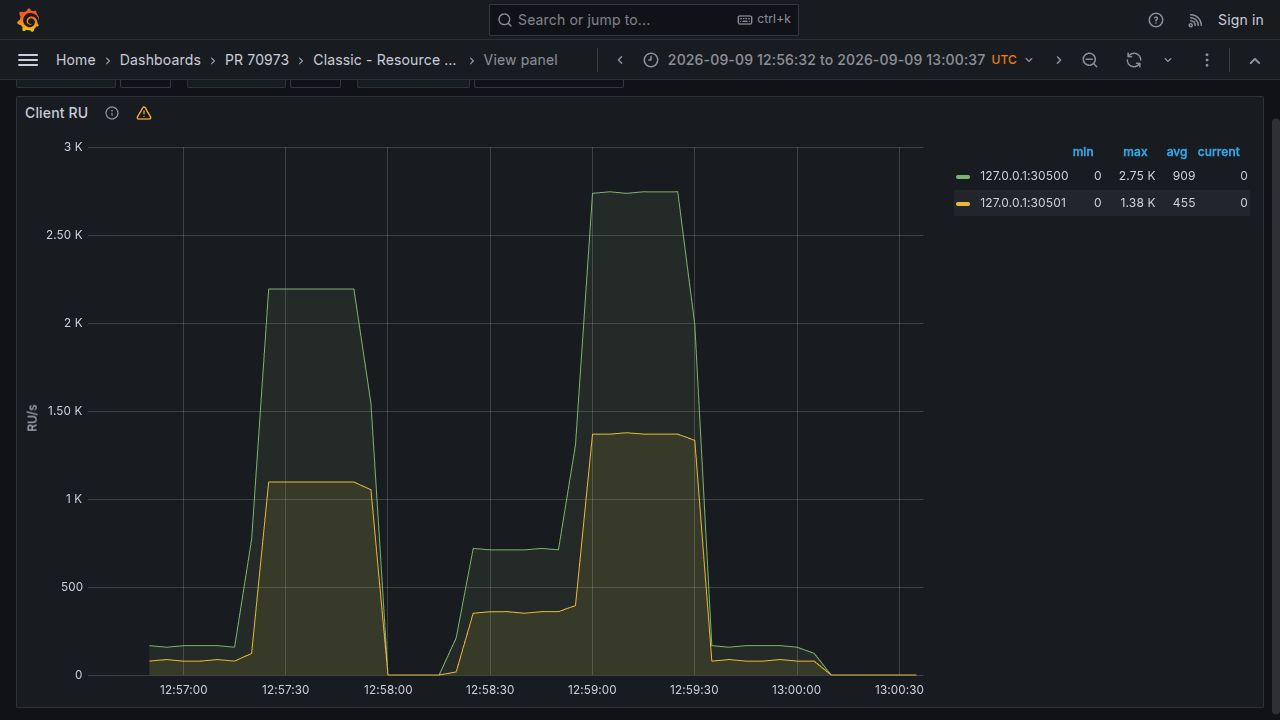
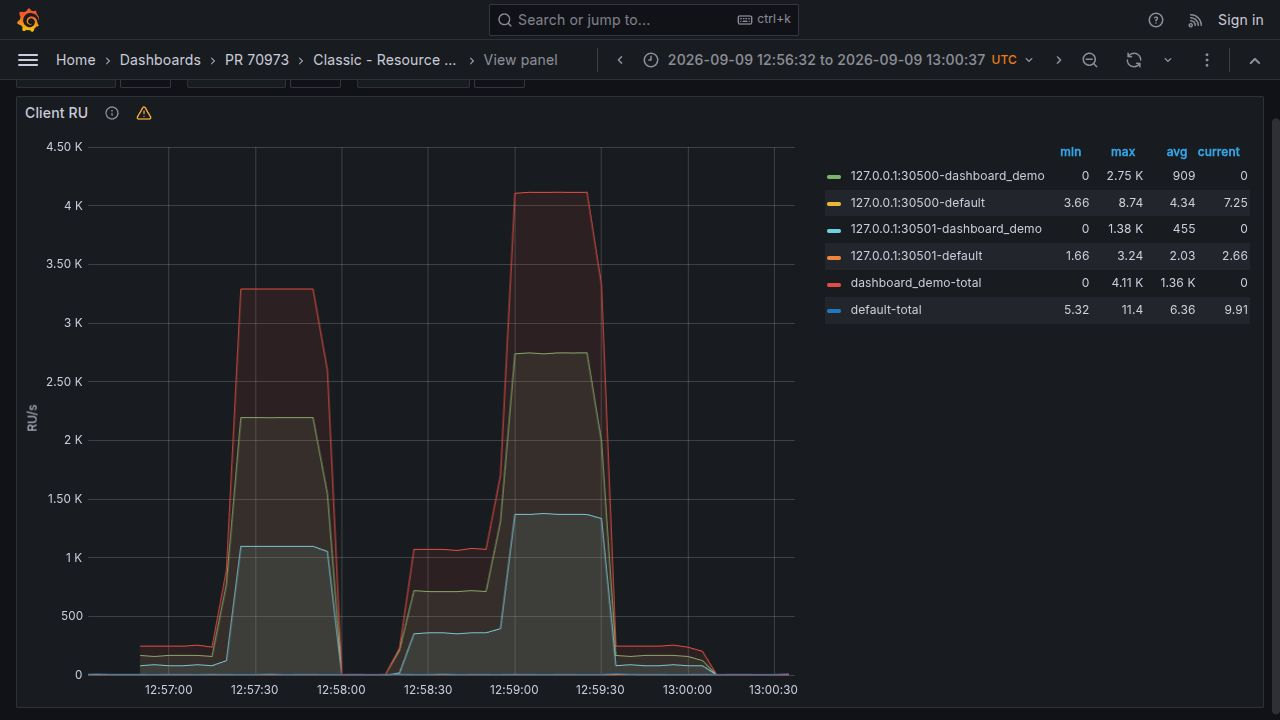
docs: capture client RU resource group details and totals

diff --git a/validation/pr70973/README.md b/validation/pr70973/README.md
@@ -2,7 +2,7 @@
 
 PR: https://github.com/pingcap/tidb/pull/70973
 
-Dashboard and TiDB revision: `4d9dfae5c361fbdf89262c6fdb81991330882bcf`.
+TiDB binary revision: `4d9dfae5c361fbdf89262c6fdb81991330882bcf`. Dashboard revision: `cd1770d8f63c5f7dd1c400ab68eb096c09b05595`. The Client RU captures use the current dashboard queries against the retained real SQL workload samples; the RU queries and captures are unchanged. No new SQL workload or binary build was needed for the Resource Group aggregation change.
 
 Both local deployments used TiDB binaries built from that revision with Go 1.26.7, using `make server` for Classic and `make server NEXT_GEN=1` for TiDB X. Classic used a Community TiKV (`39c62c85bb71e580fb34e89858b5f2e70f2f890e`) and Classic PD. TiDB X used NextGen PD, Cloud Storage Engine TiKV (`100d0dce768a69413f202fe87b1b312d04f7bf66`), MinIO, a SYSTEM TiDB, and two business TiDB instances in `keyspace1`. These are local, single-storage-node validation environments, not production topologies.
 
@@ -10,9 +10,9 @@ Grafana 10.4.19 and Prometheus 3.5.0 were configured with 5-second scrapes. The 
 
 The same 225-second workload ran on both architectures in resource group `dashboard_demo` (`RU_PER_SEC=100000 BURSTABLE`): each cycle updated an 8 KiB value and read it back. Four connections per instance generated requested rates of 15, 200, 0, 65, 250, 15 and 0 cycles/s on instance 1, with phase durations of 35, 35, 25, 35, 35, 35 and 25 seconds. Instance 2 used half those rates. Each architecture completed 28,628 cycles, with zero SQL errors. Recorded SQL status confirmed the PR commit on all five TiDB processes.
 
-Both dashboards showed the two peaks and idle valleys. Client RU showed two distinct instance series; the instance selector was exercised in Grafana on both architectures. Queries also verified instance/resource-group filtering and nonempty, finite RU/RRU/WRU series. Client RU maxima were approximately 2,746/1,376 RU/s on Classic and 3,017/1,513 RU/s on TiDB X; each returned to zero during idle. These are observability checks, not a performance comparison between architectures.
+Both dashboards showed the two peaks and idle valleys. Client RU shows a distinct series for each instance/resource-group pair and a total per resource group across the selected instances; the instance selector was exercised in Grafana on both architectures. Queries also verified instance/resource-group filtering and nonempty, finite RU/RRU/WRU series. Client RU maxima were approximately 2,746/1,376 RU/s on Classic and 3,017/1,513 RU/s on TiDB X; each returned to zero during idle. These are observability checks, not a performance comparison between architectures.
 
-All captures show 2026-09-09 12:56:32–13:00:37 UTC, with `resource_group=dashboard_demo` and all business TiDB instances selected.
+All captures show 2026-09-09 12:56:32–13:00:37 UTC with all business TiDB instances selected. RU captures select `dashboard_demo`; Client RU captures select all resource groups and show `dashboard_demo` and `default`. For both architectures, query checks verified every group Total equals the sum of its instance details at each sampled timestamp, including resource-group and single-instance filters. Grafana interactions additionally verified that Classic single-instance totals match that instance and TiDB X resource-group selection limits both details and totals. Synthetic Prometheus tests cover two business groups, refunds, absent directions, counter resets, and filtering; all 29 query test groups passed. `make lint` and `git diff --check` also passed for the dashboard revision.
 
 ## Classic
 
